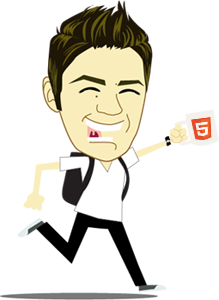
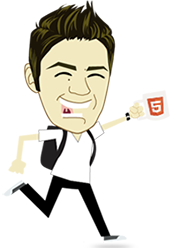
improving zeno's illustration

Changed region(s): [[0.0, 0.0, 0.9706, 1.0]]

diff --git a/_includes/nav.html b/_includes/nav.html
@@ -5,17 +5,13 @@
 		</div> -->
 
   <a href="{{ site.baseurl }}">
-    <img id="zeno-illustration" src="{{ site.baseurl }}assets/img/zeno-html5-4.png" alt="Zeno Rocha's Illustration" />
+    <img id="zeno-illustration" src="{{ site.baseurl }}assets/img/zeno-html5.png" alt="Zeno Rocha's Illustration" />
   </a>
-
-  <hr style="margin-top: 10px" />
 
   <h1 class="sitetitle">
     <a href="{{ site.baseurl }}" class="sitetitle">{{ site.name }}</a>
   </h1>
   <p class="description">{{ site.description }}</p>
-
-	<hr />
 
 	<ul id="pagenav">
     <li><a href="{{ site.baseurl }}blog">Blog</a></li>
